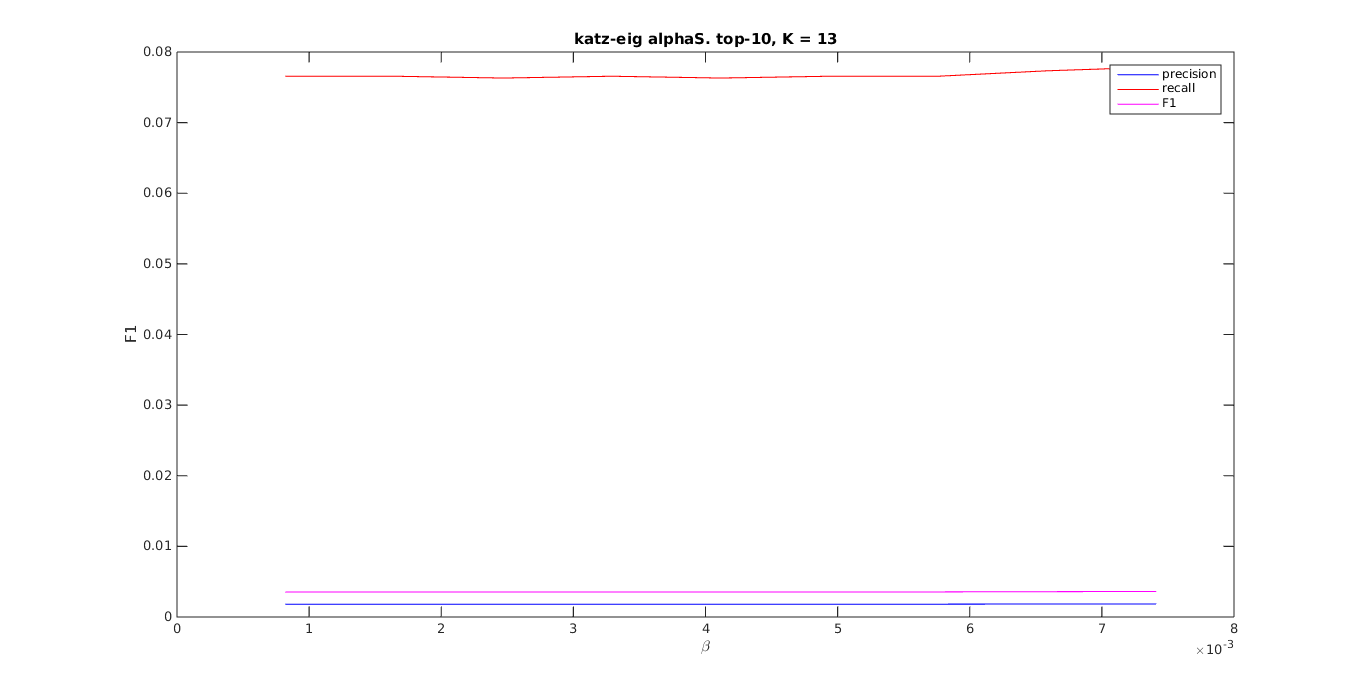
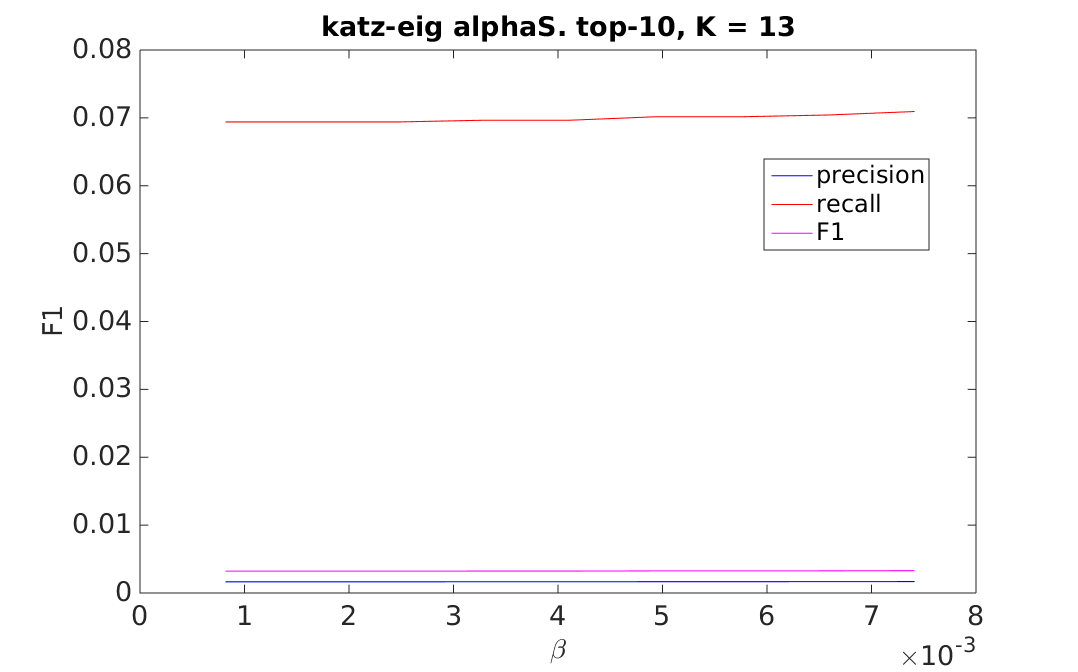
Parameter analysis of katz-eig done?

diff --git a/report/results/parameters/katzeig.tex b/report/results/parameters/katzeig.tex
@@ -1,9 +1,46 @@
 
 \subsection{katz-eig}
 
-2D graphs be here.
+There are two parameters to \textit{katz-eig}: $\beta$, the link diminishing factor and $K$ specifying the $K$-rank approximation. $\beta$ is a continous value satisfying $0 < \beta \leq \frac{1}{\|A_{train}\|_2}$. If $\beta = 0$ then the algorithm will only output 0 and if $\beta > \frac{1}{\|A_{train}\|_2}$ the iterations will not converge. $K > 0$ is a discrete value.
 
-Transition into comments about $beta$, with some plots.
+What follows is plots over both of the parameters $K$ and $\beta$. The plots are evaluated using \textit{F-measure} w.r.t. the test set using top-10 recommendations.
+
+\begin{figure}[h!]
+\centering
+\begin{minipage}{.5\textwidth}
+    \centering
+    \includegraphics[width=\linewidth]{fig/katzeig_beta_k/alphaS_katzeig.png}
+    \captionof{figure}{\textit{alphaS}}
+\end{minipage}%
+\begin{minipage}{.5\textwidth}
+    \centering
+    \includegraphics[width=\linewidth]{fig/katzeig_beta_k/eswc2015books_katzeig.png}
+    \captionof{figure}{\textit{eswc2015books}}
+\end{minipage}
+\end{figure}
+
+\begin{figure}[h!]
+\centering
+\begin{minipage}{.5\textwidth}
+    \centering
+    \includegraphics[width=\linewidth]{fig/katzeig_beta_k/movielens_katzeig.png}
+    \captionof{figure}{\textit{movielens1m}}
+\end{minipage}%
+\begin{minipage}{.5\textwidth}
+    \centering
+    \includegraphics[width=\linewidth]{fig/katzeig_beta_k/romeo_katzeig.png}
+    \captionof{figure}{\textit{romeo}}
+\end{minipage}
+\end{figure}
+
+
+
+
+It seems like $beta$ doesn't have a very big impact on the function value. Some plots with a fixed $K$ follows to better see differences.
+
+The range examined is $0 < \beta \leq \beta_{max} = \frac{1}{\|A_{train}\|_2}$ with a $K$ selected to fit the specific dataset. Again evaluated using \textit{Precision}, \textit{Recall} and \textit{F-measure} w.r.t. the test set using the top-10 recommendations.
+
+\FloatBarrier
 
 \begin{figure}[h!]
 \centering
@@ -39,9 +76,9 @@ Transition into comments about $beta$, with some plots.
 
 \FloatBarrier
 
-\Tableref{tab:katzeig_beta} is a summary of the evaluated values.
+The difference between the optimal $\beta$ and an arbitrary selected $\beta$ isn't very large. Even smaller is the difference between the optimal $\beta$ and $\beta_{max}$.  \Tableref{tab:katzeig_beta} is a summary of the evaluated values.
 
-\begin{table}[h]
+\begin{table}[h!]
     \centering
     \begin{tabular}{| c | r | r | r | r | l |}
         \hline
@@ -55,7 +92,7 @@ Transition into comments about $beta$, with some plots.
 
 
     \end{tabular}
-    \caption{A summary of evaluating different $\beta$. $\beta_{max} = \frac{1}{|h_{train}|}$ is the maximally examined $\beta$ and $\beta_{opt}$ is the optimal $\beta$ found in the range $0 < \beta \leq \frac{1}{|h_{train}|}$. $K$ is individually optimized for the different datasets. $f_{min}$ and $f_{max}$ are the minimal and maximal \textit{F1} values obtained.}
+    \caption{A summary of evaluating different $\beta$. $\beta_{max} = \frac{1}{\|A_{train}\|_2}$ is the maximally examined $\beta$ and $\beta_{opt}$ is the optimal $\beta$ found in the range $0 < \beta \leq \beta_{max}$. $K$ is individually optimized for the different datasets. $f_{min}$ and $f_{max}$ are the minimal and maximal \textit{F1} values obtained.}
     \label{tab:katzeig_beta}
 \end{table}
 
@@ -63,7 +100,8 @@ Transition into comments about $beta$, with some plots.
 
 \newpage
 
-Later on comments/plots of $K$.
+
+The $K$-rank approximation represents different available models for \textit{katz-eig}. The following plots show different values of $K$, evaluated w.r.t. the test set. $\beta = \frac{1}{\|A_{train}\|}_2$ for all datasets. $K_{m}$ is the value of $K$ which gives the best \textit{F-measure} for each dataset.
 
 \FloatBarrier
 
@@ -72,12 +110,12 @@ Later on comments/plots of $K$.
 \begin{minipage}{.5\textwidth}
     \centering
     \includegraphics[width=\linewidth]{fig/katzeig_k/alphaS_katzeig_K.png}
-    \captionof{figure}{\textit{alphaS}}
+    \captionof{figure}{\textit{alphaS} $K_{m} = 13$}
 \end{minipage}%
 \begin{minipage}{.5\textwidth}
     \centering
     \includegraphics[width=\linewidth]{fig/katzeig_k/eswc2015books_katzeig_K.png}
-    \captionof{figure}{\textit{eswc2015books}}
+    \captionof{figure}{\textit{eswc2015books} $K_{m} = 1$}
 \end{minipage}
 \end{figure}
 
@@ -86,12 +124,12 @@ Later on comments/plots of $K$.
 \begin{minipage}{.5\textwidth}
     \centering
     \includegraphics[width=\linewidth]{fig/katzeig_k/eswc2015movies_katzeig_K.png}
-    \captionof{figure}{\textit{eswc2015movies}}
+    \captionof{figure}{\textit{eswc2015movies} $K_{m} = 5$}
 \end{minipage}%
 \begin{minipage}{.5\textwidth}
     \centering
     \includegraphics[width=\linewidth]{fig/katzeig_k/movielens_katzeig_K.png}
-    \captionof{figure}{\textit{movielens1m}}
+    \captionof{figure}{\textit{movielens1m} $K_{m} = 31$}
 \end{minipage}
 \end{figure}
 
@@ -100,8 +138,13 @@ Later on comments/plots of $K$.
 \begin{minipage}{.5\textwidth}
     %\centering
     \includegraphics[width=\linewidth]{fig/katzeig_k/romeo_katzeig_K.png}
-    \captionof{figure}{\textit{romeo}}
+    \captionof{figure}{\textit{romeo} $K_{m} = 8$}
 \end{minipage}%
 \end{figure}
 
 \FloatBarrier
+
+The function space w.r.t. $K$ is fairly smooth if not entirely convex. \textit{eswc2015books} is an outlier with a low optimal value $K = 1$ and many local optima. The other datasets display more smooth functions, but there are clear local optima with both \textit{alphaS} and \textit{romeo}.
+
+Also of note is that the functions start to decline at different $K$. \textit{eswc2015movies} declines already at $K = 5$ but it's only at around $K = 30$ \textit{movielens1m} starts to decline. As noted earlier \textit{eswc2015books} has it's optima already at $K = 1$.
+
